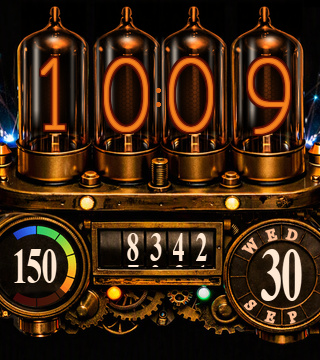
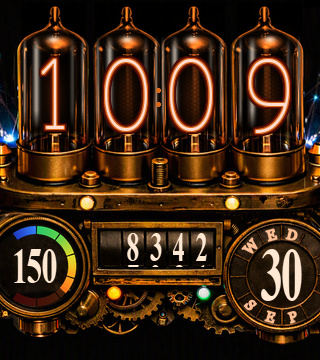
feat(ciq): white-hot wire core for the tube digits
"The center part of the clock digit should be more towards white": the wire is
now painted white-hot (INK_TIME 0xFFE9D6) with its orange rim coming from the
1 px INK_GLOW1 band under it, so the stroke reads as a hot filament with a warm
edge while the bloom bands stay orange.

A two-pass version was built first (orange glyph + a glyph eroded 1 px per side
painted white over it, via a NixieTimeHot font with identical metrics) and
measured: at a 5 px stroke the eroded core is ~1 px, i.e. barely different from
the all-orange build (the A/B render is artwork/hotcore_ab.png). The eroded-font
route is kept in make_fonts.build(erode=) as the knob, its generated font is not
shipped, and the ink no longer carries an unused INK_WIRE constant.

Screenshots and the store upload set regenerated.

diff --git a/ciq/tube_colour.py b/ciq/tube_colour.py
@@ -26,18 +26,21 @@ GEN_MC = os.path.join(HERE, "source", "TubeInk.mc")
 
 # Target colours AS SEEN ON THE WATCH (sRGB, before the AMOLED pre-correction).
 INK_TARGET = {
-    # The wire is a single hot cathode. Measured off the user's second reference (the AI face render,
-    # a warm amber tube band): core (245,155,30) at hue 35 deg / L 0.63, stroke body (182,102,22) at
-    # hue 30 / L 0.44, the glow spilling into the glass (117,61,11) at hue 28 / L 0.27.
+    # The wire is ONE glyph pass: INK_TIME is the wire itself, and INK_GLOW1 (the 1 px band painted
+    # under it) is its orange rim, so the stroke reads white-hot with a warm edge — the user's "the
+    # center part of the clock digit should be more towards white". A two-pass version was built
+    # first (orange glyph + a 1 px-eroded white glyph over it) and measured: at a 5 px stroke the
+    # eroded core is ~1 px and barely visible, so the whole stroke is white and the rim comes from the
+    # band. Measured off the user's second reference (a warm amber tube band): core (245,155,30) at
+    # hue 35 deg / L 0.63, stroke body (182,102,22) at hue 30 / L 0.44, the glow into the glass at
+    # (117,61,11).
     #
     # The core first shipped one step HOTTER than that (252,196,96) to buy contrast - 7.5:1 against
     # the amber glass where the exact reference match measures 6.2:1 - and the user, looking at the
     # watch, overruled the trade: "The time display is not orange enough. It should be like the
-    # reference." A device observation is the only measurement taken from the panel, so the core is
-    # now the reference's own (245,155,30): ink as seen (242,145,32), hue 32 deg / sat 0.87 against the
-    # reference's 35 / 0.88, still 6.2:1 on the glyph core with a 5 px stroke. The ring stays as it is,
-    # because it is also what the separator dots and the halo edge read as.
-    "INK_TIME": (245, 155, 30),     # core: the reference's own saturated orange
+    # reference." A device observation is the only measurement taken from the panel, so the wire body
+    # is now the reference's own (245,155,30), still 6.2:1 on the glyph core with a 5 px stroke.
+    "INK_TIME": (255, 248, 232),    # the wire: white-hot, warmer than white so it stays a filament
     # The glow is STATIC at the bright baseline (user decision): the ring no longer pulses, so it is
     # stored at the colour the pulse used to reach at its peak. No headroom is needed now that
     # nothing scales it. A 1 px halo around the glyph is most of what the digit's colour IS at this

diff --git a/ciq/make_fonts.py b/ciq/make_fonts.py
@@ -58,12 +58,22 @@ def render_glyph(ch, px, condense, source=SERIF_BD, thin=0, thick=0):
     return g.resize((w, g.height), Image.LANCZOS)
 
 
-def build(name, specs, px, condense, source=SERIF_BD, tracking=1, thin=0, thick=0):
-    """specs: list of (char, codepoint). Packs glyphs left-to-right, wrapping at 512 px."""
+def build(name, specs, px, condense, source=SERIF_BD, tracking=1, thin=0, thick=0, erode=0):
+    """specs: list of (char, codepoint). Packs glyphs left-to-right, wrapping at 512 px.
+
+    `erode` (after the crop) thins the SAME glyphs without touching their box, so a font built with it
+    has identical metrics to the one it is derived from and lands concentrically on it — the mechanism
+    for drawing a hot centre line inside a wire (built, measured, and dropped in favour of painting the
+    whole stroke white with an orange rim: at a 5 px stroke an eroded core is only ~1 px and barely
+    reads). Keep it as the knob if the thin-core look is ever wanted: `thin` cannot do this job,
+    because it re-crops to the smaller bbox and the two fonts' line heights and advances then differ.
+    """
     glyphs = []
     for ch, cp in specs:
         g = render_glyph(ch, px, condense, source, thin, thick)
         if g is not None:
+            if erode > 0:
+                g = g.filter(ImageFilter.MinFilter(2 * erode + 1)).filter(ImageFilter.GaussianBlur(0.5))
             glyphs.append((ch, cp, g))
     if not glyphs:
         raise SystemExit(f"{name}: no glyphs rendered")

diff --git a/ciq/preview.py b/ciq/preview.py
@@ -132,7 +132,7 @@ def glowing(canvas, consts, font, text, x, y):
     if consts["GLOW_RAD2"] != consts["GLOW_RAD1"]:
         ring(canvas, consts, font, text, x, y, consts["GLOW_RAD2"], consts["INK_GLOW2"])
     ring(canvas, consts, font, text, x, y, consts["GLOW_RAD1"], consts["INK_GLOW1"])
-    centred(canvas, consts, font, text, x, y, consts["INK_TIME"])
+    centred(canvas, consts, font, text, x, y, consts["INK_TIME"])       # the wire: white-hot
 
 
 # ---------------------------------------------------------------- the discharge (Discharge.mc)
